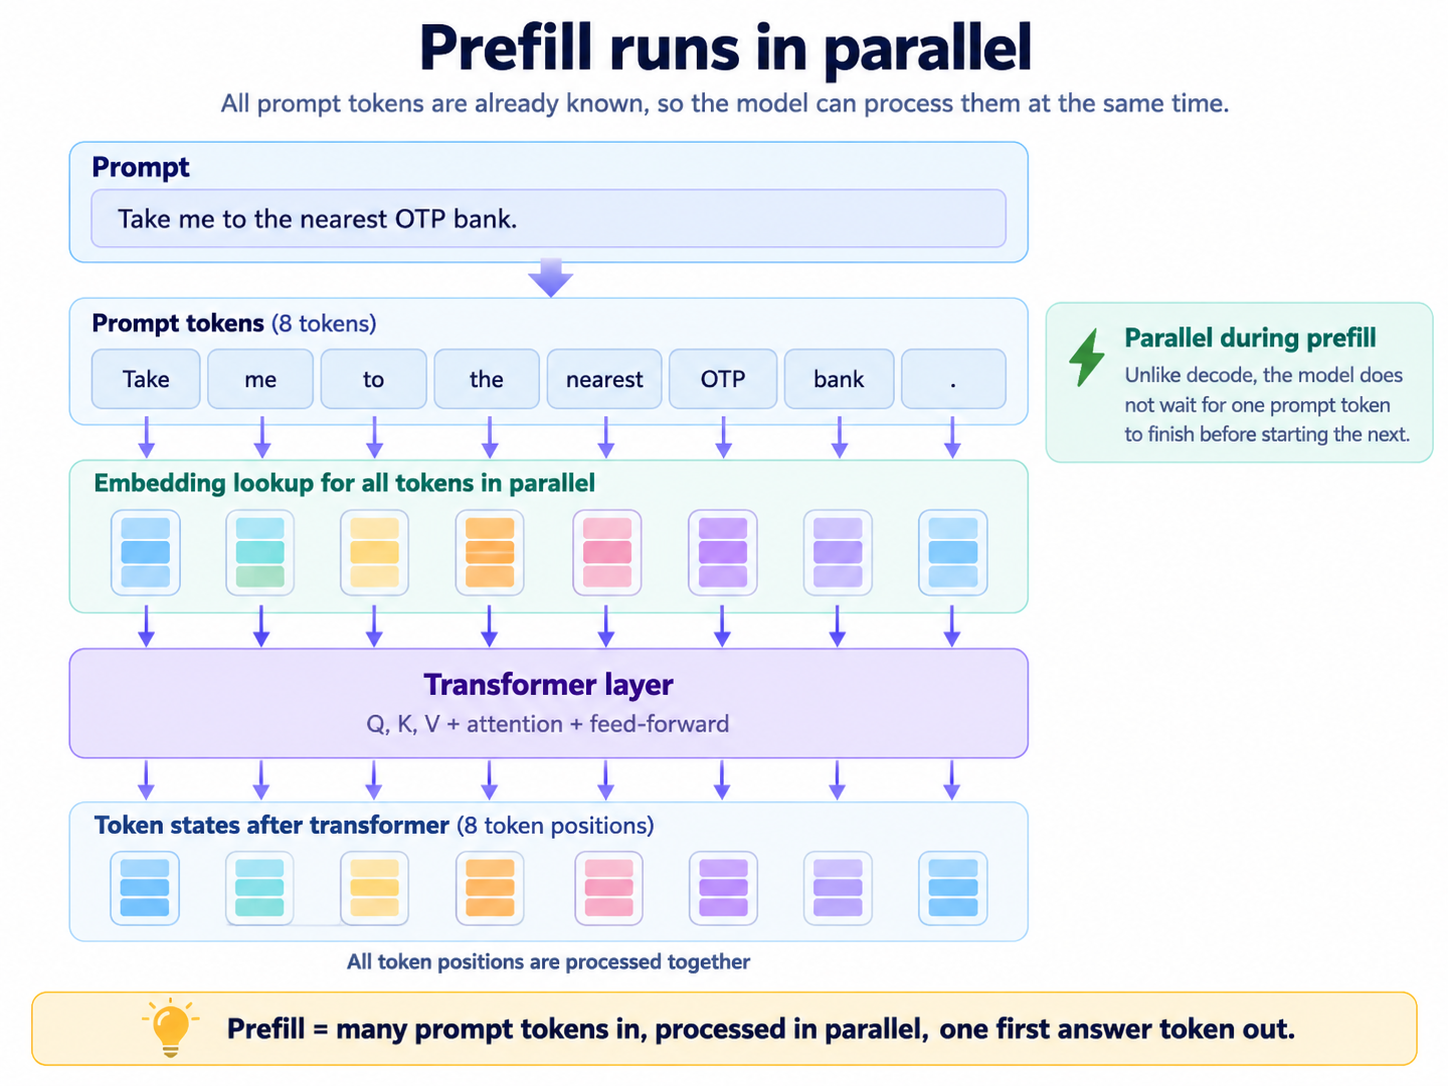
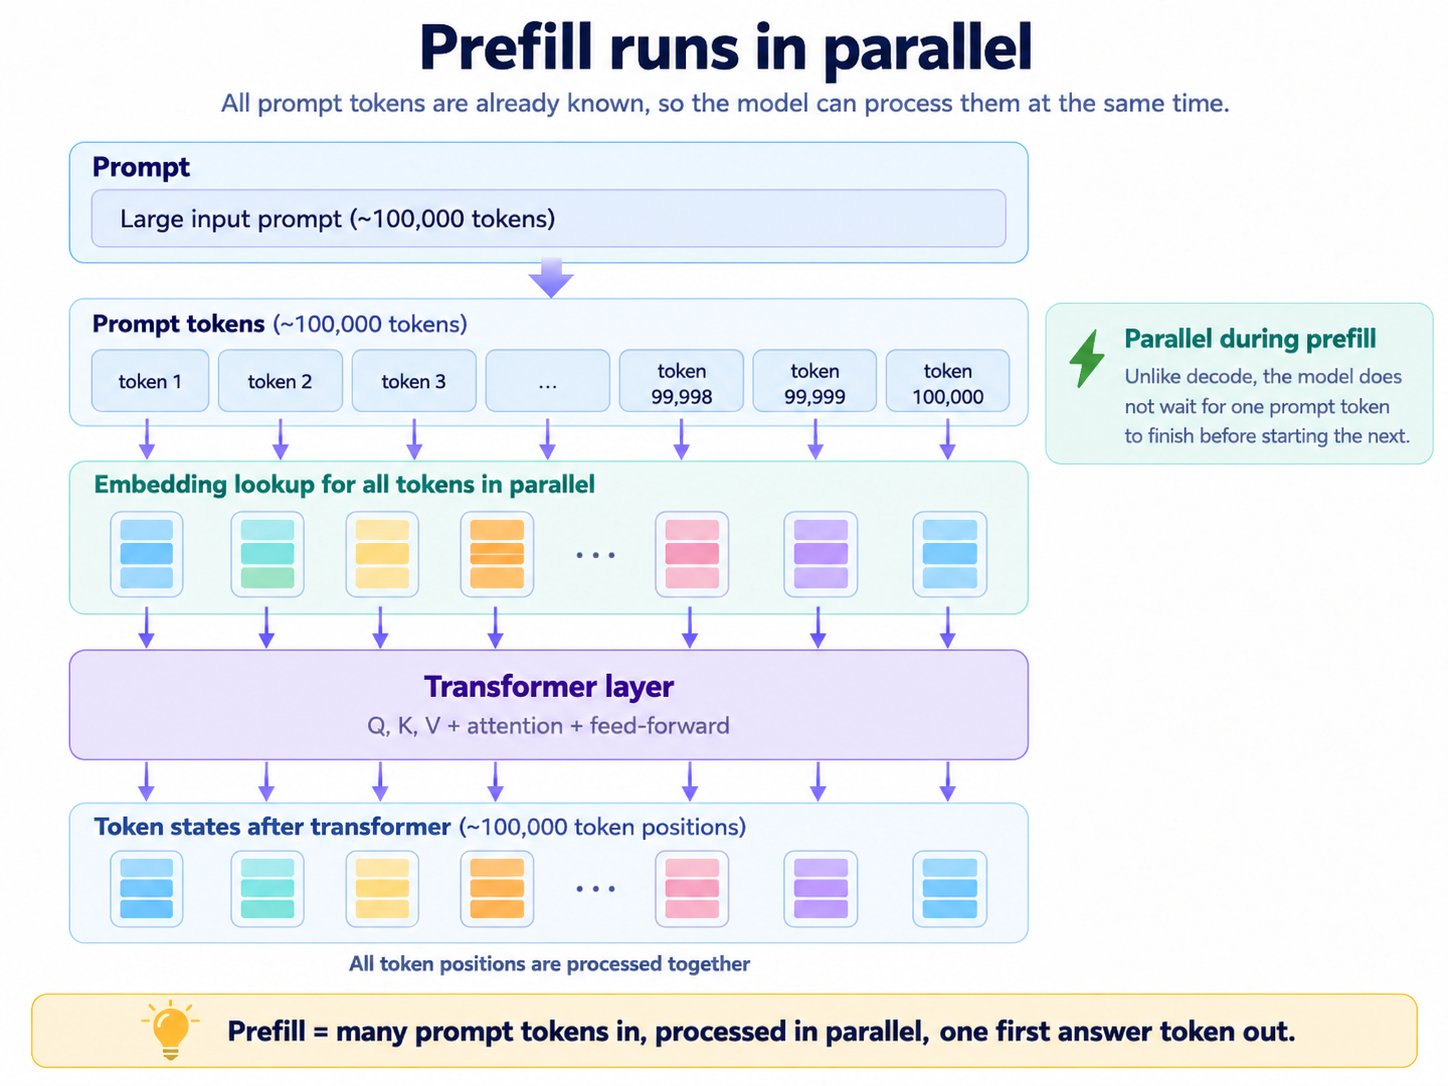
...

diff --git a/content/blog/llm-platform-engineering-basics.md b/content/blog/llm-platform-engineering-basics.md
@@ -576,20 +576,16 @@ In practical terms, when we prompt any LLM there is a slight **pause** before it
 
 #### What prefill actually does
 
-```text
-Take me to the nearest OTP bank.
-```
-
-All 8 tokens already exist when the request arrives at the model (because your whole prompt is submitted). **Causal attention** still means each position can only see itself and earlier positions, but since all tokens are present the **GPU can start processing our prompt in parallel!** (instead of _autoregressively_ which we will come back to in the next section)
+All tokens already exist when the request arrives at the model (because your whole prompt is submitted). **Causal attention** still means each position can only see itself and earlier positions, but since all tokens are present the **GPU can start processing our prompt in parallel!** (instead of _autoregressively_ which we will come back to in the next section)
 In every attention layer, `Q`, `K`, and `V` are calculated **for all tokens at the same time**, every token’s `Q` is compared against the `K`s of the tokens it is allowed to see, `V`s get mixed, `o_proj` does its thing, and the result moves on to the next layer:
 
-![Prefill parallel](/blog/images/llm-platform-engineering-overview/prefill-parallel.png)
+![Parallel prefill](/blog/images/llm-platform-engineering-overview/prefill-parallel.png)
 
 This parallel processing is really **important**. Back in our **GPU section** I said that there's a part of inference which is really **compute heavy** -- well guess what, it's **prefill**.
 On a super high level, during prefill the **model** gets loaded out of the `VRAM` (in chunks) of our expensive GPU **once** into the arithmetic units and caches, and then **thousands** of GPU cores (the specialized tensor cores we've touched on) start firing **at the same time** for all of our input tokens to do the calculations required to produce the first token:
 
-![gpu-arith](/blog/images/llm-platform-engineering-overview/gpu-arith.png)
+![Model load once](/blog/images/llm-platform-engineering-overview/gpu-arith.png)
 
-Imagine how much compute power is required for a prompt that is made up of **100.000 tokens**! However this also tells us one interesting thing: since all input tokens are processed at once, the GPU loads the **model** from its memory only **one time** during prefill. This is one of the reasons why prefill does not need **high memory bandwith**.
+Imagine how much compute power is required for a prompt that is made up of **100.000 tokens**! However this also tells us one interesting thing: since all input tokens are processed at once, the GPU loads the **model** from its memory only **one time** during prefill -- this is one of the reasons why prefill does not need **high memory bandwith**.
 
 So now we understand the resource requirement characteristics of prefill, but you could ask the question: this much compute power only to produce 1 token, lol? Well... not quite.
